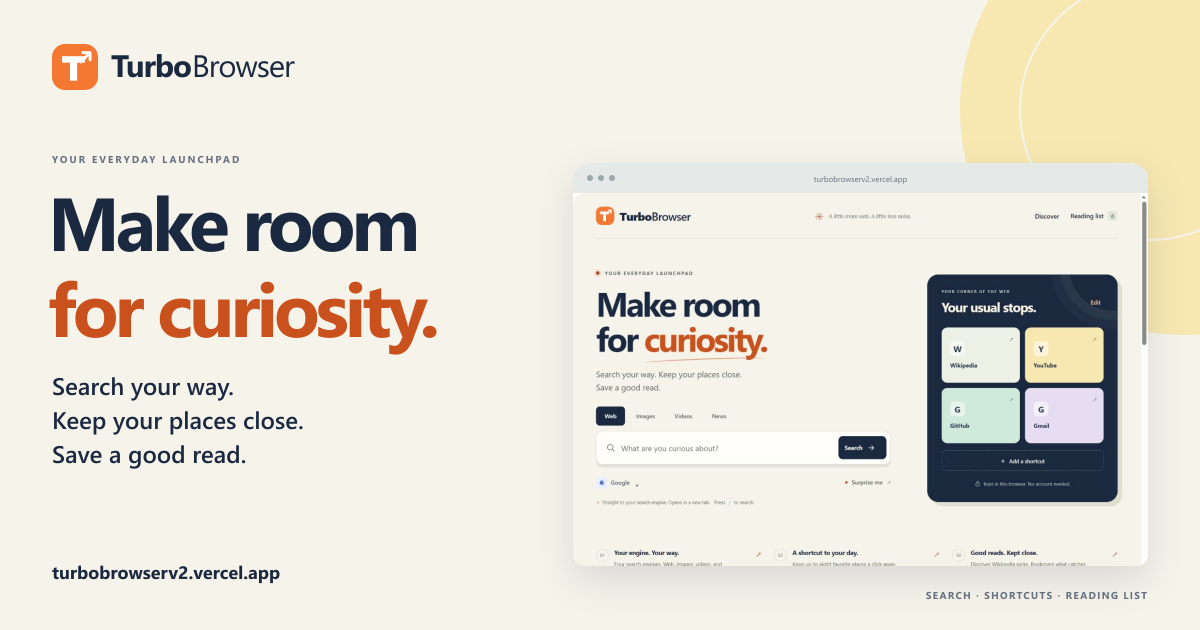
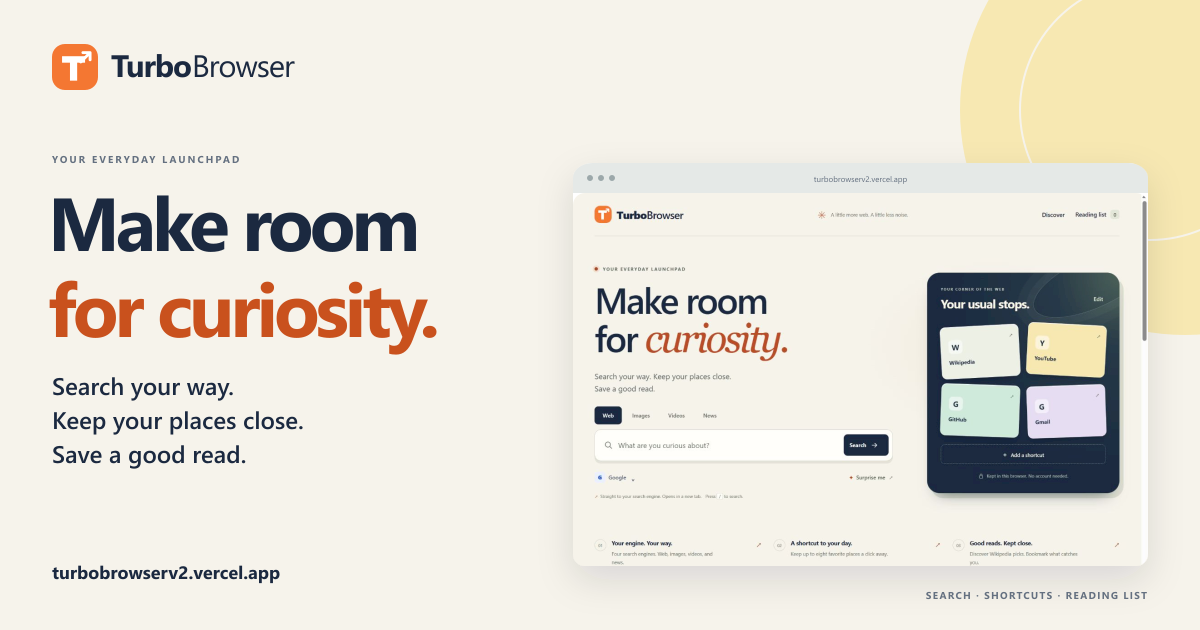
Add editorial search spotlight and interactive reading showcase
Keep the existing brand and daily tools while adding an italic editorial headline, dimensional shortcut cards and an original spatial reading stage. Browse real Wikipedia picks with explicit keyboard/touch controls, open the selected source, or save it to the shared browser-local reading list. Remaining picks stay in the grid.

No autoplay or new runtime dependencies. Single-pick, image-error, narrow-screen and reduced-motion fallbacks remain usable. Refresh the screenshot-based social preview.

Validation: all 35 Node tests passed; browser checks covered desktop/phone layouts, keyboard navigation, 44px controls, shared saved state, actual Wikipedia navigation, single-item/image-failure states and reduced-motion suppression.

diff --git a/showcase.css b/showcase.css
@@ -1,0 +1,59 @@
+/* Original spatial reading stage. Every visible action uses the real search/discovery product. */
+.hero { position: relative; padding-top: 66px; padding-bottom: 58px; gap: 6.5%; isolation: isolate; }
+.hero::before { content: ''; position: absolute; z-index: -1; width: 52%; height: 420px; top: 35px; right: -22px; border-radius: 50%; background: radial-gradient(ellipse, #e7dfc970, #f6f3eb00 67%); pointer-events: none; }
+.hero h1 { font-size: clamp(62px, 6.3vw, 88px); line-height: 1.04; letter-spacing: -4px; font-weight: 550; }
+.hero h1 .editorial-word { color: #b84d27; font-family: Georgia, 'Times New Roman', serif; font-style: italic; font-size: 1.1em; font-weight: 400; letter-spacing: -.065em; }
+.hero h1 .editorial-word::after { display: none; }
+.tagline { margin-top: 24px; }
+.hero .launchpad { background: radial-gradient(ellipse at 100% 0%, #4a6157 0, #273a48 24%, #1b2940 66%); border: 1px solid #5d6b65; border-radius: 28px; box-shadow: 0 22px 34px -24px #182431ab, 9px 11px 0 #dcded0; padding: 30px; }
+.hero .launchpad::after { width: 280px; height: 110px; right: -80px; top: -33px; border-color: #c3d1be55; transform: rotate(-24deg); box-shadow: 0 0 0 17px #b1c3ae0d, 0 0 0 37px #c4d5bb0a; }
+.hero .shortcuts { gap: 16px; perspective: 800px; padding-top: 4px; padding-bottom: 4px; }
+.hero .shortcut { min-height: 116px; border: 1px solid #ffffff99; box-shadow: 0 8px 15px -8px #020c19aa, inset 0 1px 0 #fff; transition: transform .2s ease, box-shadow .2s ease; }
+.hero .shortcut-wrap:nth-child(4n+1) .shortcut { transform: rotate(-3deg) translateY(2px); }
+.hero .shortcut-wrap:nth-child(4n+2) .shortcut { transform: rotate(3deg) translateY(-2px); }
+.hero .shortcut-wrap:nth-child(4n+3) .shortcut { transform: rotate(2deg) translateY(1px); }
+.hero .shortcut-wrap:nth-child(4n+4) .shortcut { transform: rotate(-2deg) translateY(3px); }
+.hero .shortcut-wrap .shortcut:hover, .hero .shortcut-wrap .shortcut:focus-visible { transform: rotate(0) translateY(-3px); box-shadow: 0 12px 17px -9px #020c19d9; }
+.hero .shortcuts:has(.remove-shortcut) .shortcut { transform: none; }
+.product-notes { padding-top: 20px; }
+.reading-showcase { position: relative; margin: 2px 0 30px; padding: 32px 35px 22px; border: 1px solid #4b5a60; border-radius: 24px; color: #f5f0e4; background: radial-gradient(ellipse at 55% 58%, #66756c44 0, #31424833 30%, transparent 63%), linear-gradient(125deg, #1c2b40, #1b2738 55%, #273c40); overflow: hidden; }
+.showcase-caption { position: relative; z-index: 2; display: flex; align-items: flex-start; justify-content: space-between; gap: 24px; }
+.showcase-caption .eyebrow { margin-bottom: 11px; color: #b4c2ae; font-size: 8px; letter-spacing: 1.7px; }
+.showcase-caption h3 { margin: 0; color: #f6f1e6; font-size: 35px; line-height: 1.07; font-weight: 500; letter-spacing: -1px; }
+.showcase-caption h3 em { color: #e9c38c; font-family: Georgia, 'Times New Roman', serif; font-weight: 400; font-size: 1.09em; }
+.showcase-caption > p { margin: 22px 0 0; color: #bdc8b9; font-size: 11px; line-height: 1.8; }
+.showcase-stage { position: relative; display: grid; place-items: center; min-height: 390px; margin-top: 2px; perspective: 1200px; isolation: isolate; border-radius: 16px; outline-offset: -3px; }
+.showcase-stage:focus-visible { outline-color: #f4c991; }
+.showcase-orbit { position: absolute; z-index: -1; width: 76%; height: 280px; top: 51%; left: 12%; border: 1px solid #b3c3b35c; border-radius: 50%; box-shadow: 0 1px 0 #ffffff30, 0 -1px 0 #071326bb, 0 10px 28px #00000022; transform: rotateX(70deg) rotateZ(-13deg); pointer-events: none; }
+.orbit-two { width: 94%; height: 350px; left: 3%; top: 39%; border-color: #b9c9b92e; transform: rotateX(70deg) rotateZ(17deg); box-shadow: 0 1px 0 #ffffff0d; }
+.showcase-backcard { position: absolute; display: flex; flex-direction: column; justify-content: space-between; gap: 15px; z-index: 0; width: 218px; min-height: 266px; padding: 23px; border: 1px solid #e0e7d399; border-radius: 18px; box-shadow: 0 28px 25px -20px #030b18aa; background: linear-gradient(140deg, #e4e9d6, #bbccb8); color: #23392c; transform: translateX(-290px) rotateY(22deg) rotateZ(-13deg) translateY(15px); pointer-events: none; }
+.backcard-right { background: linear-gradient(140deg, #f2e8c3, #d4bd8b); color: #4c402d; transform: translateX(290px) rotateY(-22deg) rotateZ(13deg) translateY(15px); }
+.showcase-backcard > span:first-child { max-width: 130px; font-size: 7px; line-height: 1.8; font-weight: 700; letter-spacing: 1.4px; }
+#showcase-preview-left, #showcase-preview-right { display: -webkit-box; -webkit-line-clamp: 4; -webkit-box-orient: vertical; overflow: hidden; max-width: 175px; font-size: 24px; font-family: Georgia, 'Times New Roman', serif; line-height: 1.15; letter-spacing: -.5px; }
+.backcard-arrow { font-size: 30px; }
+.showcase-slide { position: relative; z-index: 1; display: flex; flex-direction: row; width: min(100%, 600px); min-height: 296px; padding: 27px; gap: 24px; border: 1px solid #fffbec; border-radius: 18px; color: #1b2940; background: linear-gradient(135deg, #fffef8, #f0eee1); box-shadow: 0 30px 24px -17px #030a16b3, 0 3px 0 #d2d9c7, inset 0 0 0 4px #ffffff40; transform: rotateY(-5deg) rotateZ(-1deg); }
+.showcase-copy { display: flex; flex: 1; min-width: 0; flex-direction: column; align-items: flex-start; }
+.showcase-kind { color: #8b6238; font-size: 8px; font-weight: 700; letter-spacing: 1.5px; text-transform: uppercase; line-height: 1.5; }
+#showcase-title { display: -webkit-box; -webkit-line-clamp: 3; -webkit-box-orient: vertical; overflow: hidden; margin: 16px 0 12px; font-family: Georgia, 'Times New Roman', serif; font-size: 31px; font-weight: 400; line-height: 1.05; letter-spacing: -1px; }
+#showcase-description { display: -webkit-box; -webkit-line-clamp: 3; -webkit-box-orient: vertical; overflow: hidden; margin: 0 0 19px; color: #65705c; font-size: 11px; line-height: 1.7; }
+.showcase-actions { display: flex; flex-wrap: wrap; gap: 7px; margin-top: auto; }
+.showcase-actions .action-button { display: inline-grid; place-items: center; min-height: 44px; padding: 10px 12px; font-size: 11px; }
+#showcase-save[aria-pressed=true] { color: #245339; background: #d9e9d9; border-color: #9dbb9c; }
+.showcase-source { margin-top: 12px; color: #737866; font-size: 8px; line-height: 1.6; }
+.showcase-image { flex: 0 0 35%; width: 35%; min-width: 0; object-fit: cover; border: 1px solid #dce1d0; border-radius: 100px 100px 12px 12px; background: #dce7d7; }
+.showcase-controls { display: flex; align-items: center; justify-content: space-between; gap: 20px; margin-top: 5px; padding-top: 15px; border-top: 1px solid #84918633; }
+.showcase-keyboard-hint { color: #b9c7b2; font-size: 10px; }
+.showcase-keyboard-hint > span { margin-left: 8px; color: #e6bb7c; }
+.showcase-navigation { display: flex; align-items: center; gap: 16px; }
+.showcase-nav { display: grid; place-items: center; width: 44px; height: 44px; border: 1px solid #7c8b80; border-radius: 50%; color: #f7f4e7; background: #ffffff05; font-size: 22px; transition: color .15s, background .15s; }
+.showcase-nav:hover { color: #1b2940; background: #e8e8d5; }
+.showcase-nav:disabled { opacity: .35; cursor: default; }
+.showcase-nav:focus-visible { outline-color: #f6c78e; }
+#showcase-count { min-width: 50px; color: #dce3d2; font-size: 11px; font-variant-numeric: tabular-nums; text-align: center; letter-spacing: 1px; }
+.more-picks-heading { display: flex; align-items: center; justify-content: space-between; margin: 30px 0 18px; color: #65705b; font-size: 9px; font-weight: 700; letter-spacing: 1.7px; }
+.more-picks-heading > span { color: #9e512d; font-size: 20px; }
+@media (max-width: 1100px) { .hero h1 { font-size: 67px; letter-spacing: -3.6px; } .hero .launchpad { padding: 25px; } .showcase-backcard { width: 200px; min-height: 245px; transform: translateX(-235px) rotateY(22deg) rotateZ(-13deg) translateY(15px); } .backcard-right { transform: translateX(235px) rotateY(-22deg) rotateZ(13deg) translateY(15px); } .showcase-slide { width: min(100%, 550px); } }
+@media (max-width: 800px) { .hero { padding-top: 44px; gap: 32px; } .hero h1 { font-size: clamp(60px,10vw,78px); letter-spacing: -3.7px; } .hero::before { width: 100%; top: 300px; right: 0; } .hero .launchpad { padding: 25px; } .hero .shortcut { min-height: 106px; } .reading-showcase { padding: 28px 25px 20px; border-radius: 22px; } .showcase-caption h3 { font-size: 30px; } .showcase-caption > p { max-width: 150px; font-size: 10px; } .showcase-stage { min-height: 390px; } .showcase-slide { width: min(100%, 510px); min-height: 285px; gap: 18px; padding: 24px; transform: rotateY(-3deg) rotateZ(-1deg); } .showcase-backcard { width: 155px; min-height: 230px; transform: translateX(-210px) rotateY(18deg) rotateZ(-12deg) translateY(25px); padding: 20px; } .backcard-right { transform: translateX(210px) rotateY(-18deg) rotateZ(12deg) translateY(25px); } #showcase-preview-left, #showcase-preview-right { font-size: 20px; } #showcase-title { font-size: 29px; } }
+@media (max-width: 540px) { .hero { padding-top: 35px; padding-bottom: 30px; } .hero h1 { font-size: clamp(50px,11.7vw,62px); font-weight: 550; letter-spacing: -2.9px; } .hero h1 .editorial-word { font-size: 1.13em; letter-spacing: -.065em; } .hero .launchpad { padding: 23px; border-radius: 22px; } .hero .shortcuts { gap: 15px; } .hero .shortcut { min-height: 106px; padding: 15px; } .reading-showcase { padding: 24px 18px 18px; margin-inline: -4px; border-radius: 20px; } .showcase-caption { display: block; } .showcase-caption h3 { font-size: 31px; line-height: 1.08; } .showcase-caption > p { margin: 14px 0 0; max-width: 100%; font-size: 10px; line-height: 1.7; } .showcase-caption > p br { display: none; } .showcase-stage { min-height: 440px; margin-top: 17px; perspective: none; } .showcase-slide { display: flex; flex-direction: column-reverse; width: calc(100% - 18px); min-height: 380px; gap: 17px; padding: 23px 21px; border-radius: 15px; transform: none; box-shadow: 0 23px 20px -16px #030a1699, 0 3px 0 #d2d9c7; } .showcase-copy { width: 100%; } .showcase-image { flex: none; width: 100%; height: 135px; object-position: center; border-radius: 100px 100px 8px 8px; } .showcase-slide:not(.has-image) { min-height: 290px; } #showcase-title { font-size: 30px; margin-top: 13px; -webkit-line-clamp: 3; } #showcase-description { -webkit-line-clamp: 2; margin-bottom: 17px; font-size: 11px; } .showcase-actions { gap: 7px; } .showcase-actions .action-button { font-size: 10px; padding-inline: 11px; } .showcase-source { font-size: 7px; } .showcase-backcard { width: 125px; min-height: 220px; opacity: .58; transform: translateX(-92px) rotate(-8deg); z-index: 0; top: 22%; border-radius: 13px; } .backcard-right { transform: translateX(92px) rotate(8deg); } .showcase-backcard > span { visibility: hidden; } .showcase-orbit { width: 126%; height: 240px; left: -13%; top: 51%; } .orbit-two { width: 145%; height: 280px; left: -22%; top: 47%; } .showcase-controls { margin-top: 17px; padding-top: 15px; gap: 12px; } .showcase-keyboard-hint { max-width: 115px; font-size: 9px; line-height: 1.8; } .showcase-keyboard-hint > span { margin-left: 3px; } .showcase-navigation { gap: 10px; } #showcase-count { min-width: 40px; font-size: 10px; letter-spacing: .5px; } .showcase-nav { width: 44px; height: 44px; } }
+@media (hover: none), (pointer: coarse) { .hero .shortcut-wrap:nth-child(n) .shortcut { transform: none; } .showcase-slide { transform: none; } }
+@media (prefers-reduced-motion: reduce) { .hero .shortcut-wrap:nth-child(n) .shortcut, .showcase-slide, .showcase-backcard { transform: none; } .showcase-backcard { display: none; } *, *::before, *::after { animation: none !important; transition: none !important; } }

diff --git a/index.html b/index.html
@@ -16,6 +16,7 @@
     <link rel="icon" type="image/svg+xml" href="favicon.svg" />
     <link rel="stylesheet" href="styles.css" />
     <link rel="stylesheet" href="brand.css" />
+    <link rel="stylesheet" href="showcase.css" />
     <script src="app.js" type="module"></script>
   </head>
   <body>
@@ -29,7 +30,7 @@
       <section class="hero" aria-labelledby="page-title">
         <div class="search-panel">
           <p class="eyebrow"><span class="status-dot" aria-hidden="true"></span> YOUR EVERYDAY LAUNCHPAD</p>
-          <h1 id="page-title">Make room<br />for <span>curiosity.</span></h1>
+          <h1 id="page-title">Make room<br />for <span class="editorial-word">curiosity.</span></h1>
           <p class="tagline">Search your way. Keep your places close.<br class="desktop-break" /> Save a good read.</p>
           <nav class="quick-links" aria-label="Search categories">
             <button type="button" data-category="web" class="category active" aria-pressed="true">Web</button>
@@ -79,6 +80,21 @@
       </section>
       <section class="daily-section" id="discover" aria-labelledby="daily-title">
         <div class="daily-heading"><div><p class="eyebrow" id="daily-eyebrow">A FRESH PERSPECTIVE</p><h2 id="daily-title" tabindex="-1">A little discovery. Every day.</h2><p class="daily-description" id="daily-description">Featured and popular articles from Wikipedia.</p></div><div class="discovery-controls"><span class="daily-date" id="daily-date"></span><div class="feed-filters" role="group" aria-label="Show articles"><button class="feed-filter active" id="all-filter" type="button" aria-pressed="true">Fresh picks</button><button class="feed-filter" id="saved-filter" type="button" aria-pressed="false">Saved <span id="filter-count">0</span></button></div></div></div>
+        <section class="reading-showcase" id="reading-showcase" role="region" aria-roledescription="carousel" aria-label="In focus: daily reading picks" hidden>
+          <div class="showcase-caption"><div><p class="eyebrow">A DIFFERENT PERSPECTIVE</p><h3>Something worth<br /><em>getting lost in.</em></h3></div><p>One good find at a time.<br />Open a pick, or save it for later.</p></div>
+          <div class="showcase-stage" tabindex="0" aria-label="Reading picks. Use Left and Right arrow keys to browse.">
+            <span class="showcase-orbit orbit-one" aria-hidden="true"></span><span class="showcase-orbit orbit-two" aria-hidden="true"></span>
+            <div class="showcase-backcard backcard-left" aria-hidden="true"><span>JUST A LITTLE CURIOUS</span><span id="showcase-preview-left"></span><span class="backcard-arrow">↗</span></div>
+            <div class="showcase-backcard backcard-right" aria-hidden="true"><span>ANOTHER GOOD FIND</span><span id="showcase-preview-right"></span><span class="backcard-arrow">↗</span></div>
+            <article class="showcase-slide" id="showcase-slide" role="group" aria-roledescription="slide">
+              <div class="showcase-copy"><span id="showcase-kind" class="showcase-kind"></span><h4 id="showcase-title"></h4><p id="showcase-description"></p><div class="showcase-actions"><a id="showcase-open" class="action-button primary" target="_blank" rel="noopener noreferrer">Open article ↗</a><button id="showcase-save" class="action-button" type="button" aria-pressed="false"><span class="showcase-save-label">Save for later</span></button></div><span class="showcase-source">From Wikipedia · Opens in a new tab</span></div>
+              <img id="showcase-image" class="showcase-image" alt="" loading="lazy" referrerpolicy="no-referrer" hidden />
+            </article>
+          </div>
+          <div class="showcase-controls"><span class="showcase-keyboard-hint">Take a different path <span aria-hidden="true">↗</span></span><div class="showcase-navigation"><button id="showcase-prev" class="showcase-nav" type="button" aria-label="Previous reading pick">←</button><output id="showcase-count" aria-label="Reading pick position" aria-live="off">01 / 07</output><button id="showcase-next" class="showcase-nav" type="button" aria-label="Next reading pick">→</button></div></div>
+          <p id="showcase-announcement" class="visually-hidden" aria-live="polite" aria-atomic="true"></p>
+        </section>
+        <p class="more-picks-heading" id="more-picks-label" hidden>MORE TO EXPLORE <span aria-hidden="true">↙</span></p>
         <div class="daily-cards" id="daily-cards" aria-live="polite" aria-busy="true"><p class="daily-state">Loading fresh picks…</p></div>
         <noscript><p class="daily-state">Enable JavaScript to see daily picks, or <a href="https://en.wikipedia.org/wiki/Main_Page" target="_blank" rel="noopener noreferrer">explore Wikipedia</a>.</p></noscript>
       </section>

diff --git a/app.js b/app.js
@@ -1,4 +1,5 @@
 import { providers, categoryNames, buildSearchUrl, normalizeUrl, normalizeArticle, normalizeShortcuts } from './browser-core.mjs';
+import { createShowcase } from './showcase.mjs';
 
 const $ = (selector) => document.querySelector(selector);
 const form = $('#search-form');
@@ -60,6 +61,8 @@ let dailyItems = [];
 let feedState = 'loading';
 let showSaved = false;
 let dailyDescription = 'Featured and popular articles from Wikipedia.';
+const showcaseRoot = $('#reading-showcase');
+const showcase = createShowcase({ root: showcaseRoot, onToggleSave: (item, button) => toggleSaved(item, button), isSaved });
 
 function updateSearchForm() {
   const provider = providers[activeProvider];
@@ -243,7 +246,13 @@ function toggleSaved(item, button) {
   const stored = persist(storageKeys.saved, JSON.stringify(saved));
   updateSavedCounts();
   if (showSaved) { renderPicks(); $('#saved-filter').focus(); }
-  else updateSaveButton(button, item);
+  else {
+    updateSaveButton(button, item);
+    cards.querySelectorAll('.save-article').forEach((otherButton) => {
+      if (otherButton.dataset.articleUrl === item.url) updateSaveButton(otherButton, item);
+    });
+  }
+  showcase.syncSaved();
   if (stored) notify(wasSaved ? 'Removed from your reading list.' : 'Saved to your reading list in this browser.');
 }
 function makeArticle(item, index) {
@@ -278,6 +287,7 @@ function makeArticle(item, index) {
   const save = document.createElement('button');
   save.type = 'button';
   save.className = 'save-article';
+  save.dataset.articleUrl = item.url;
   const svg = document.createElementNS('http://www.w3.org/2000/svg', 'svg');
   svg.setAttribute('viewBox', '0 0 24 24');
   svg.setAttribute('aria-hidden', 'true');
@@ -345,8 +355,14 @@ function renderPicks() {
   $('#daily-description').textContent = showSaved ? 'A reading list for your curious side. Saved in this browser, ready when you are.' : dailyDescription;
   $('#daily-date').hidden = showSaved;
   cards.dataset.view = showSaved ? 'saved' : feedState;
+  showcaseRoot.hidden = showSaved || feedState !== 'ready' || dailyItems.length === 0;
+  $('#more-picks-label').hidden = showSaved || feedState !== 'ready' || dailyItems.length < 2;
+  showcase.syncSaved();
   const items = showSaved ? saved : dailyItems;
-  if (items.length) cards.replaceChildren(...items.map(makeArticle));
+  if (items.length) {
+    const gridItems = showSaved ? items : items.slice(1);
+    cards.replaceChildren(...gridItems.map((item, index) => makeArticle(item, index + 1)));
+  }
   else if (showSaved) renderState('Your next good read starts here.', 'Bookmark a fresh pick and it will be waiting here. No account needed. Just this browser.', 'saved');
   else if (feedState === 'loading') renderLoading();
   else renderState('A small pause in discovery.', 'Fresh picks couldn’t load. Try again, visit Wikipedia, or open your saved reads. Search still works.', 'error');
@@ -375,6 +391,7 @@ async function loadDailyPicks() {
     if (!Array.isArray(data.items)) throw new Error('No daily articles received');
     dailyItems = [...new Map(data.items.map(normalizeArticle).filter(Boolean).map((item) => [item.url, item])).values()].slice(0, 12);
     if (!dailyItems.length) throw new Error('No valid daily articles received');
+    showcase.setItems(dailyItems);
     dailyDescription = typeof data.description === 'string' ? data.description : 'Featured and popular articles from Wikipedia.';
     const updated = new Date(data.updatedAt);
     if (!Number.isNaN(updated.valueOf())) {
@@ -383,7 +400,7 @@ async function loadDailyPicks() {
       label.title = `Last refreshed ${updated.toLocaleString()}`;
     }
     feedState = 'ready';
-  } catch { dailyItems = []; feedState = 'error'; }
+  } catch { dailyItems = []; showcase.setItems([]); feedState = 'error'; }
   renderPicks();
 }
 

diff --git a/README.md b/README.md
@@ -20,6 +20,7 @@ Then open `http://localhost:8000`. There is no build step or package dependency.
 - Add up to eight shortcuts. Use **Edit** to remove a shortcut; the removal message offers **Undo**.
 - Bookmark an article, then open **Reading list** or **Saved** to return to it. Up to 100 articles are stored in the current browser.
 - **Surprise me** searches the entered query or a suggested topic with the selected provider and category.
+- **In focus** lets you browse real daily reading picks with Previous/Next buttons or Left/Right/Home/End when the stage or its navigation buttons are focused. Open the selected article or save it to the same reading list. Nothing advances automatically. Other daily picks stay in the grid below.
 
 ## Checks
 
@@ -51,6 +52,8 @@ The established public link is https://turbobrowserv2.vercel.app/. This reposito
 ## Visual identity
 
 TurboBrowser uses a warm launchpad identity: cream `#F6F3EB`, ink `#1B2940`, Turbo orange `#F47732`, mint `#CFE9DA` and sand `#F7E8B2`. Cobalt `#275CD4` identifies keyboard focus. The original T and launch-arrow icon is retained. `brand.css` applies these shared tokens to the working product, dialogs, reading-list empty state, loading cards and recovery actions. Motion is limited to a short arrival, hover feedback and loading placeholders; reduced-motion preference disables it.
+
+`showcase.css` adds an editorial Georgia italic accent, a dimensional shortcut composition and a reading stage with original CSS lighting/rings. `showcase.mjs` only controls the view of real feed entries; it owns no storage, network requests or autoplay. The stage has explicit touch-sized controls, visible focus and optional-image fallbacks. Touch and reduced-motion layouts flatten decorative depth; reduced motion also disables the brief user-triggered selection transition.
 
 The product promise, “Make room for curiosity,” describes direct provider search, editable shortcuts and browser-local reading lists. No account or cross-device capability is implied. Reusable brand and launch assets are in the task's `outputs/turbobrowser-launch-kit` directory; the public social preview is `brand/social-preview.png`.
 
